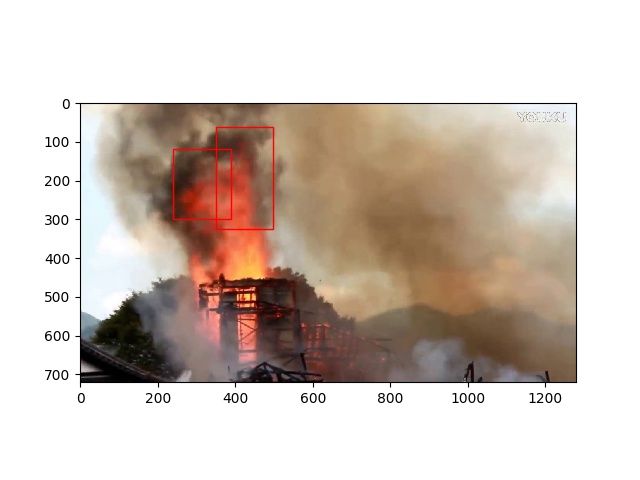
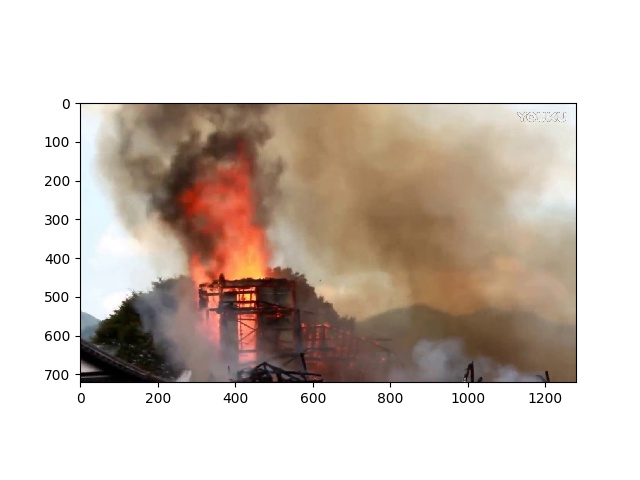
fixed eval script not drawing boxes properly

Changed region(s): [[0.25, 0.25, 0.4375, 0.5]]

diff --git a/train.py b/train.py
@@ -5,6 +5,7 @@ from math import ceil
 
 import matplotlib
 from keras.callbacks import ModelCheckpoint, CSVLogger, TerminateOnNaN, TensorBoard
+from keras_retinanet.utils.image import preprocess_image
 
 matplotlib.use("Agg")
 
@@ -22,87 +23,96 @@ import tensorflow as tf
 def get_session():
     config = tf.ConfigProto()
     config.gpu_options.allow_growth = True
-    return tf.Session(config = config)
+    return tf.Session(config=config)
 
+def get_preprocessing(flag=False):
+    if flag:
+        return lambda x: preprocess_image(x, mode='tf')
+    else:
+        return lambda x: x
+def main():
+    parser = ConfigParser(interpolation=ExtendedInterpolation())
+    parser.read("config.ini")
+    params = parser["train"]
+    backbone = params["backbone"]
 
-parser = ConfigParser(interpolation = ExtendedInterpolation())
-parser.read("config.ini")
-params = parser["train"]
-backbone = params["backbone"]
+    # use this environment flag to change which GPU to use
+    # os.environ["CUDA_VISIBLE_DEVICES"] = "1"
 
-# use this environment flag to change which GPU to use
-# os.environ["CUDA_VISIBLE_DEVICES"] = "1"
+    # set the modified tf session as backend in keras
+    keras.backend.tensorflow_backend.set_session(get_session())
 
-# set the modified tf session as backend in keras
-keras.backend.tensorflow_backend.set_session(get_session())
+    model = models.backbone(backbone).retinanet(num_classes=1)
+    model.compile(
+        loss={
+            'regression': losses.smooth_l1(),
+            'classification': losses.focal()
+        },
+        optimizer=keras.optimizers.adam(lr=1e-5, clipnorm=0.001),
+        metrics=['accuracy']
+    )
 
-model = models.backbone(backbone).retinanet(num_classes = 1)
-model.compile(
-    loss = {
-        'regression': losses.smooth_l1(),
-        'classification': losses.focal()
-    },
-    optimizer = keras.optimizers.adam(lr = 1e-5, clipnorm = 0.001),
-    metrics = ['accuracy']
-)
+    weights = params["weights_path"]
+    model.load_weights(weights, by_name=True, skip_mismatch=True)
+    batch_size = int(params["batchsize"])
 
-weights = params["weights_path"]
-model.load_weights(weights, by_name = True, skip_mismatch = True)
-batch_size = int(params["batchsize"])
+    preprocesss=get_preprocessing(bool(params["preprocess"]))
 
-data = CSVGenerator("train_annotation.csv", "class_map.csv", batch_size = batch_size, image_min_side = 512,
-                    image_max_side = 512)
-val_data = CSVGenerator("val_annotation.csv", "class_map.csv", batch_size = batch_size, image_min_side = 512,
-                        image_max_side = 512)
+    data = CSVGenerator("train_annotation.csv", "class_map.csv", batch_size=batch_size, image_min_side=512,
+                        image_max_side=512, preprocess_image=preprocesss)
+    val_data = CSVGenerator("val_annotation.csv", "class_map.csv", batch_size=batch_size, image_min_side=512,
+                            image_max_side=512, preprocess_image=preprocesss)
 
-val_dataset_size = val_data.size()
+    val_dataset_size = val_data.size()
 
-# TODO: Set the file path under which you want to save the model.
-current_time = datetime.now().strftime('%Y-%m-%d %H:%M').split(" ")
-model_checkpoint = ModelCheckpoint(
-    filepath = os.path.join(params["check_point_path"],
-                            'retinanet_fire_{}_{}.h5'.format(current_time[0], current_time[1])),
-    monitor = 'val_loss',
-    verbose = 1,
-    save_best_only = True,
-    save_weights_only = False,
-    mode = 'auto',
-    period = int(params["save_period"]))
-# model_checkpoint.best =
+    # TODO: Set the file path under which you want to save the model.
+    current_time = datetime.now().strftime('%Y-%m-%d %H:%M').split(" ")
+    model_checkpoint = ModelCheckpoint(
+        filepath=os.path.join(params["check_point_path"],
+                              'retinanet_fire_{}_{}_{}_{}.csv'.format(backbone, params["preprocess"],current_time[0], current_time[1])),
+        monitor='val_loss',
+        verbose=1,
+        save_best_only=True,
+        save_weights_only=False,
+        mode='auto',
+        period=int(params["save_period"]))
+    # model_checkpoint.best =
 
-csv_logger = CSVLogger(
-    filename = os.path.join(params["csv_path"], 'retinanet_fire_{}_{}.csv'.format(current_time[0], current_time[1])),
-    separator = ',',
-    append = True)
+    csv_logger = CSVLogger(
+        filename=os.path.join(params["csv_path"],
+                              'retinanet_fire_{}_{}_{}_{}.csv'.format(backbone, params["preprocess"],current_time[0], current_time[1])),
+        separator=',',
+        append=True)
 
-# learning_rate_scheduler = LearningRateScheduler(schedule=lr_schedule, verbose=1)
+    # learning_rate_scheduler = LearningRateScheduler(schedule=lr_schedule, verbose=1)
 
-terminate_on_nan = TerminateOnNaN()
+    terminate_on_nan = TerminateOnNaN()
 
-tensorboard = TensorBoard(
-    log_dir = os.path.join(params["tensorboard_path"], 'retinanet', current_time[0], current_time[1]),
-    write_images = True, write_graph = True)
+    tensorboard = TensorBoard(
+        log_dir=os.path.join(params["tensorboard_path"], 'retinanet', current_time[0], current_time[1]),
+        write_images=True, write_graph=True)
 
-callbacks = [model_checkpoint,
-             csv_logger,
-             #            learning_rate_scheduler,
-             terminate_on_nan,
-             tensorboard,
-             ]
-# Fit model
+    callbacks = [model_checkpoint,
+                 csv_logger,
+                 #            learning_rate_scheduler,
+                 terminate_on_nan,
+                 tensorboard,
+                 ]
+    # Fit model
 
-# If you're resuming a previous training, set `initial_epoch` and `final_epoch` accordingly.
-initial_epoch = 0
-final_epoch = int(params["epochs"])
-steps_per_epoch = int(params["steps_per_epoch"])
+    # If you're resuming a previous training, set `initial_epoch` and `final_epoch` accordingly.
+    initial_epoch = 0
+    final_epoch = int(params["epochs"])
+    steps_per_epoch = int(params["steps_per_epoch"])
 
-model.fit_generator(generator = data,
-                    steps_per_epoch = steps_per_epoch,
-                    epochs = final_epoch,
-                    callbacks = callbacks,
-                    validation_data = val_data,
-                    validation_steps = ceil(val_dataset_size / batch_size),
-                    initial_epoch = initial_epoch,
-                    )
-print(history.val_acc)
-print(history.acc)
+    model.fit_generator(generator=data,
+                        steps_per_epoch=steps_per_epoch,
+                        epochs=final_epoch,
+                        callbacks=callbacks,
+                        validation_data=val_data,
+                        validation_steps=ceil(val_dataset_size / batch_size),
+                        initial_epoch=initial_epoch,
+                        )
+
+if __name__ == '__main__':
+    main()

diff --git a/eval.py b/eval.py
@@ -6,7 +6,7 @@ import numpy as np
 import matplotlib
 
 from keras_retinanet.models import convert_model
-
+from train import get_preprocessing
 matplotlib.use("Agg")
 import matplotlib.pyplot as plt
 
@@ -26,6 +26,7 @@ print(params["backbone"])
 model = models.load_model(model_path, backbone_name = params["backbone"])
 model = convert_model(model)
 labels_to_names = {0: 'fire'}
+n_classes=len(labels_to_names)
 num_file = int(params["num_file"])
 test_file_path = params["image_set_path"]
 f = open(test_file_path, "r")
@@ -38,9 +39,12 @@ for line in f.readlines()[:num_file]:
     # draw = image.copy()
     # draw = cv2.cvtColor(draw, cv2.COLOR_BGR2RGB)
     plt.imshow(image)
+    print(filename)
 
     # preprocess image for network
-    # image = preprocess_image(image)
+    prep_function = get_preprocessing()
+
+    image=prep_function(image)
     image, scale = resize_image(image, min_side = 512, max_side = 512)
 
     boxes, scores, labels = model.predict_on_batch(np.expand_dims(image, axis = 0))
@@ -51,24 +55,26 @@ for line in f.readlines()[:num_file]:
     ax = plt.gca()
     for box, score, label in zip(boxes[0], scores[0], labels[0]):
         # scores are sorted so we can break
-        print(box, score)
+
         if score < 0.5:
+            print("ignored: ",box, score)
             break
 
-        color = label_color(label)
+        colors = plt.cm.hsv(np.linspace(0, 1, n_classes + 1)).tolist()
 
         b = box.astype(int)
         print(b)
         # Create a Rectangle patch
-        rect = matplotlib.patches.Rectangle((b[0], b[1]), (b[2]-b[0]), (b[3]-b[1]), linewidth = 1, edgecolor = 'r', facecolor = 'none')
+        rect = matplotlib.patches.Rectangle((b[0], b[1]), (b[2]-b[0]), (b[3]-b[1]), linewidth = 1, color=colors[label], fill=False)
 
         # Add the patch to the Axes
         ax.add_patch(rect)
         # draw_box(image, b, color = color)
 
         caption = "{} {:.3f}".format(labels_to_names[label], score)
-        draw_caption(image, b, caption)
+        plt.text(b[0]+5,b[1]-12,caption, bbox=dict(boxstyle="square",color=colors[label]))
 
     # plt.axis('off')
     plt.savefig("figures/{}.jpg".format(filename))
+    plt.clf()
 f.close()
